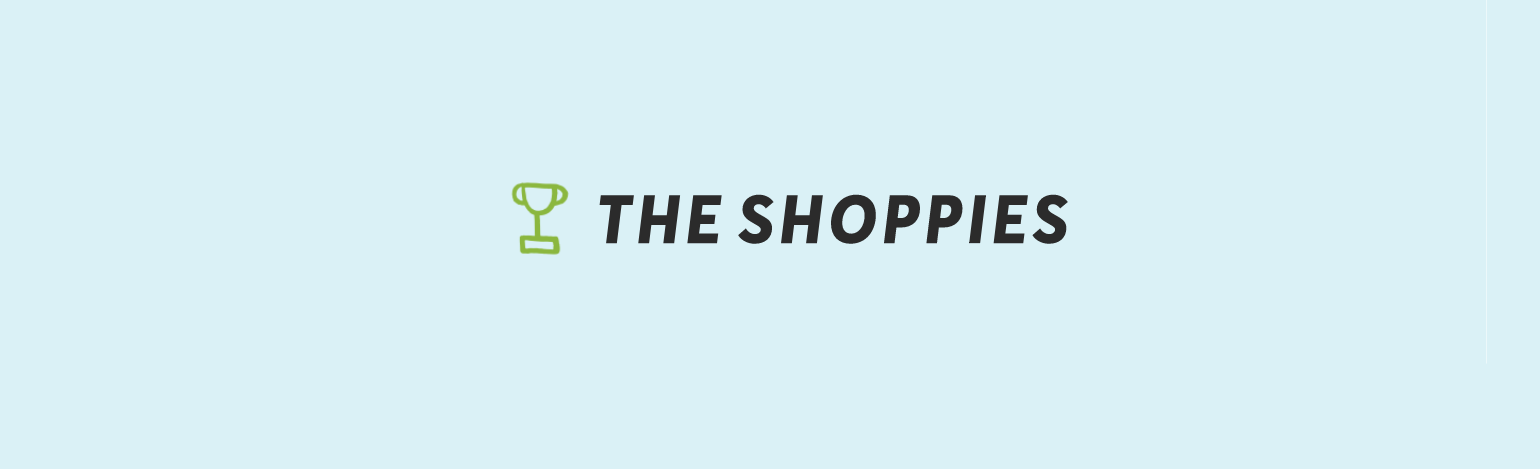
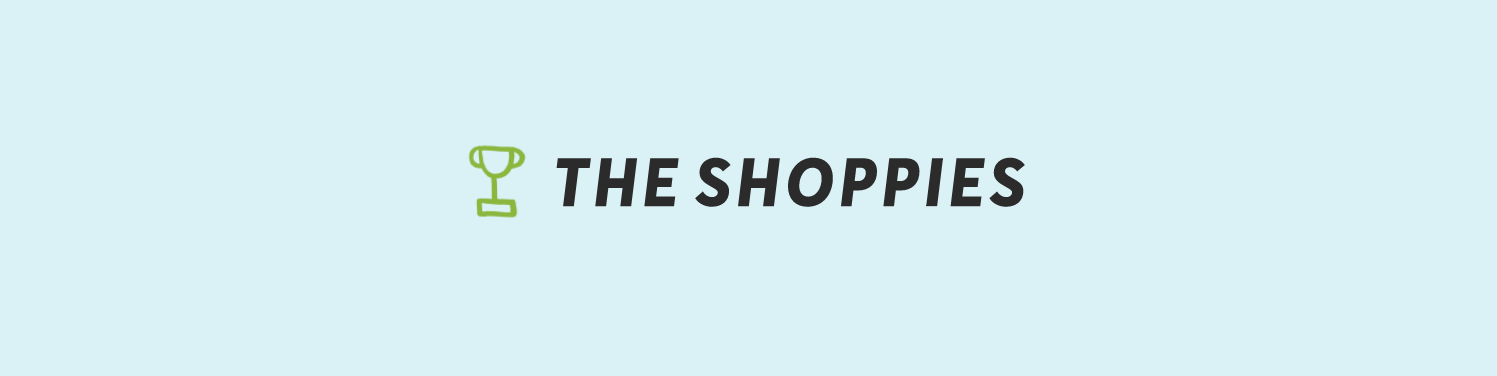
added MovieCard component to display search results nicely

Changed region(s): [[0.3073, 0.3803, 0.7067, 0.5851]]

diff --git a/shoppies/src/components/MovieCard.js b/shoppies/src/components/MovieCard.js
@@ -1,0 +1,53 @@
+import React from "react";
+import { makeStyles } from '@material-ui/core/styles';
+import Card from '@material-ui/core/Card';
+import CardContent from '@material-ui/core/CardContent';
+import CardMedia from '@material-ui/core/CardMedia';
+import IconButton from '@material-ui/core/IconButton';
+import Typography from '@material-ui/core/Typography';
+
+const MovieCard = (props) => {
+
+const useStyles = makeStyles(() => ({
+    root: {
+      display: 'flex',
+      width: '100%',
+    },
+    details: {
+      width: '70%',
+      display: 'flex',
+      flexDirection: 'column',
+      minHeight: '30vh',
+    },
+    content: {
+      flex: '1 0 auto',
+    },
+    image: {
+      width: '30%',
+    },
+  }));
+
+  const classes = useStyles();
+
+  return (
+    <Card className={classes.root}>
+      <div className={classes.details}>
+        <CardContent className={classes.content}>
+          <Typography component="h5" variant="h5">
+            {props.title}
+          </Typography>
+          <Typography variant="subtitle1" color="textSecondary">
+            {props.year}
+          </Typography>
+        </CardContent>
+      </div>
+      <CardMedia
+        className={classes.image}
+        image={props.poster}
+        title="Movie poster"
+      />
+    </Card>
+  );
+}
+
+export default MovieCard;

diff --git a/shoppies/src/components/SearchResults.js b/shoppies/src/components/SearchResults.js
@@ -6,16 +6,23 @@ import ListItem from '@material-ui/core/ListItem';
 import ListItemText from '@material-ui/core/ListItemText';
 import CardContent from '@material-ui/core/CardContent';
 import Typography from '@material-ui/core/Typography';
+import CardHeader from '@material-ui/core/CardHeader';
+import MovieCard from "./MovieCard";
 
 const SearchResults = (props) => {
   console.log(props)
+
   const useStyles = makeStyles((theme) => ({
     card: {
-      marginTop: '10%',
       padding: '10px 4px',
       boxShadow: '2px 4px 6px 4px #ccc',
     },
+    title: {
+      position: 'sticky',
+    },
     results: {
+      height: '45vh',
+      overflow: 'scroll',
     }
   }));
 
@@ -23,15 +30,13 @@ const SearchResults = (props) => {
 
   return (
     <Card className={classes.card}>
+      <CardHeader className={classes.title} title="Movie Search Results" />
       <CardContent>
-        <Typography component="h5" variant="h5">
-          Movie Search Results
-        </Typography>
         <List className={classes.results}>
           {(
             props.movies.map((movie, index) => (
               <ListItem>
-                <ListItemText primary={movie.Title}/>
+                <MovieCard title={movie.Title} year={movie.Year} poster={movie.Poster}/>
               </ListItem>
             ))
           )}

diff --git a/shoppies/src/components/Nominations.js b/shoppies/src/components/Nominations.js
@@ -6,16 +6,21 @@ import ListItem from '@material-ui/core/ListItem';
 import ListItemText from '@material-ui/core/ListItemText';
 import CardContent from '@material-ui/core/CardContent';
 import Typography from '@material-ui/core/Typography';
+import CardHeader from '@material-ui/core/CardHeader';
 
 const Nominations = (props) => {
-  console.log(props)
+
   const useStyles = makeStyles((theme) => ({
     card: {
-      marginTop: '10%',
       padding: '10px 4px',
       boxShadow: '2px 4px 6px 4px #ccc',
     },
+    title: {
+      position: 'sticky',
+    },
     nominations: {
+      height: '45vh',
+      overflow: 'scroll',
     }
   }));
 
@@ -23,10 +28,8 @@ const Nominations = (props) => {
 
   return (
     <Card className={classes.card}>
+      <CardHeader className={classes.title} title="Your Shoppies Nominations" />
       <CardContent>
-        <Typography component="h5" variant="h5">
-            Your Shoppies Nominations
-        </Typography>
         <List className={classes.nominations}>
           <ListItem>
             <ListItemText primary="You haven't nominated any movies yet... get to work!" />

diff --git a/shoppies/src/components/App.js b/shoppies/src/components/App.js
@@ -72,11 +72,13 @@ const App = () => {
       results: {
         flexGrow: 1,
         width: '90%',
-        top: '65vh',
         position: 'absolute',
         left: '50%',
         transform: 'translate(-50%, -50%)',  
-      }
+      },
+      divider: {
+        height: '40vh',
+      },
     }));
   
     const classes = useStyles();
@@ -86,6 +88,7 @@ const App = () => {
       <div className={classes.root}>
         <Header />
         <Search search={search} />
+        <div className={classes.divider}></div>
         <div className={classes.results}>
           <Grid container spacing={3}>
             <Grid item xs={6}>

diff --git a/shoppies/src/components/Search.js b/shoppies/src/components/Search.js
@@ -13,14 +13,9 @@ const Search = (props) => {
     props.search(searchTerm);
   }
 
-  const resetInputField = () => {
-    setSearchTerm("")
-  }
-
   const submitSearch = (e) => {
     e.preventDefault();
     props.search(searchTerm);
-    resetInputField();
   }
 
   const useStyles = makeStyles((theme) => ({
@@ -28,7 +23,7 @@ const Search = (props) => {
       padding: '10px 4px',
       display: 'flex',
       alignItems: 'center',
-      width: 800,
+      width: '70%',
       position: 'absolute',
       left: '50%',
       transform: 'translate(-50%, -50%)',

diff --git a/shoppies/src/components/Header.js b/shoppies/src/components/Header.js
@@ -8,6 +8,8 @@ const Header = () => {
   const useStyles = makeStyles(() => ({
     head: {
       backgroundImage: `url(${Image})`,
+      backgroundSize: 'cover',
+      backgroundPosition: 'center',
       minHeight: '50vh',
       width: '100%',
     },
